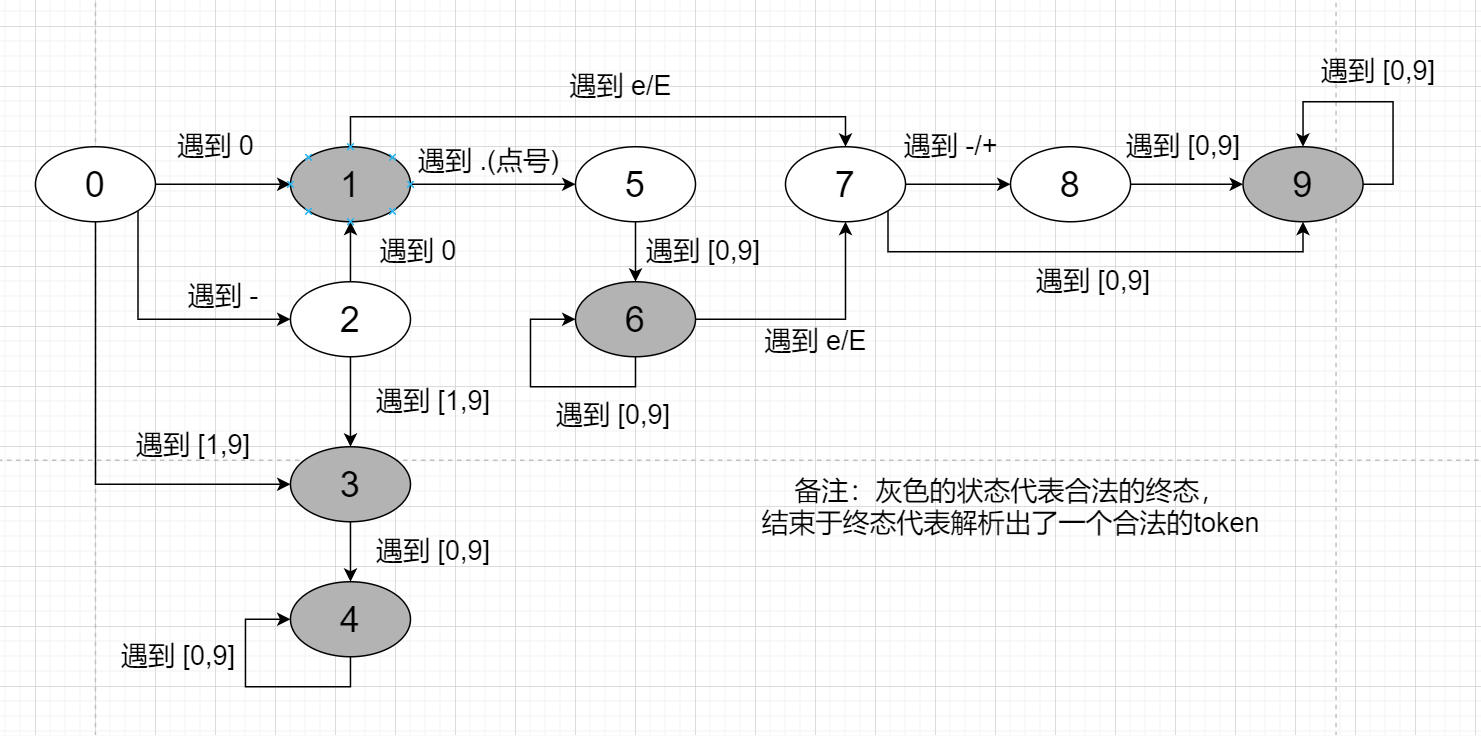
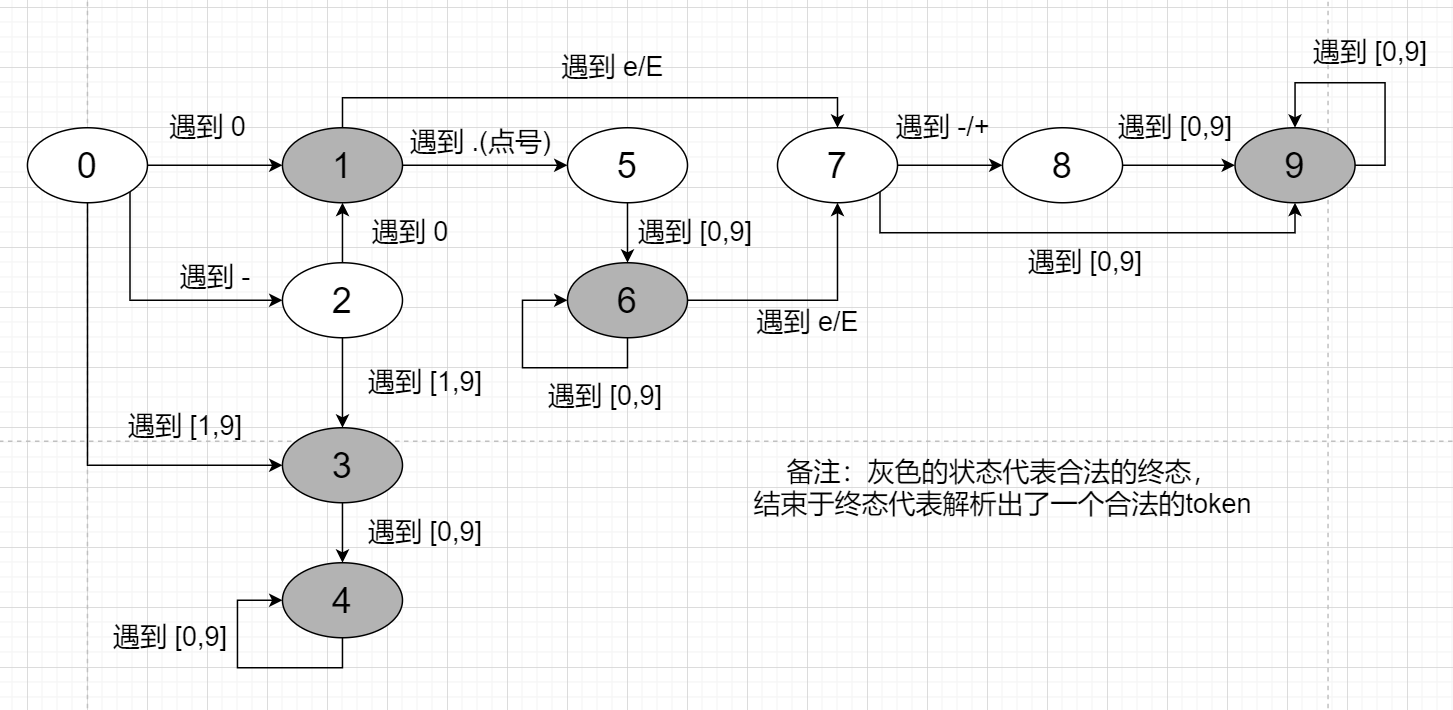
博客 修正一点错误

diff --git a/blog/blog.md b/blog/blog.md
@@ -1,14 +1,5 @@
 # 从零开始实现一个简易json解析器
 
-## 0. 写在前面
-这篇文章记录了我如何**从零实现一个简易json解析器**：不依赖任何第三方库，只用Java手写词法分析器、语法分析器和AST，并在此基础上实现json的美化输出，同时比较**递归解析**与**基于堆栈解析**在性能与栈深度上的差异。
-
-适合阅读本篇文章的同学大致具备以下背景：  
-- 熟悉 Java 语法，能看懂基础集合、枚举、异常等
-- 听说过编译原理里的一些基础概念（词法分析、语法分析、AST 等），但可能没有亲手实现过
-- 想通过一个**小而完整**的项目来练习“从文法到状态机再到代码”的全过程
----
-
 ## 1. MySimpleJsonParser 介绍与整体设计
 最近在学习编译原理相关的知识。为了加深对词法分析、语法分析阶段中诸如**有限自动机、自顶向下语法分析、AST** 等概念的理解，我选择实现一个json解析器作为练手机会。
 #####
@@ -23,9 +14,9 @@
 2. **`StreamJsonLexer`**：按需惰性解析token的流式json词法分析器
 3. **`RecursiveJsonParser`**：基于递归的json语法解析器
 4. **`StackBaseJsonParser`**：基于显式堆栈的json语法解析器（非递归）
-5. **AST 结构**：`JsonElement`及其子类，并基于AS生成Pretty JSON字符串的工具方法
+5. **AST结构**：JsonElement及其子类，并基于AST生成Pretty JSON字符串的工具方法
 
-## 2. json词法分析实现 从文法到状态机
+## 2. 从文法到词法分析器：手写 json lexer
 词法分析阶段的任务是：将原始的字符流，按照json的词法规则，转换为token流。之后的语法分析会在token流的基础上按文法规则构建AST。
 
 ### 2.1 json文法与基本结构
@@ -38,17 +29,17 @@
 6. **whitespace**：由任意个space空格、linefeed换行符、carriage return回车符以及tab制表符组成，本身无意义，仅起到分割的作用。
 
 #####
-仔细分析后，发现string结构、number结构和whitespace结构以及`{`、`}`、`[`、`]` 这类符号都是基本结构，是自身无法再嵌套其它结构的基本单元，因此其都是最终AST中的叶子节点，而object、array和value都是可以互相嵌套的复合结构，其都是AST中的非叶子节点。   
-对于这些可嵌套的非AST叶子节点，必须在语法分析中才能完成解析；而string结构、number结构、false、true、null关键字以及“{”、“]”等特殊符号，则适合在词法分析中完成解析。   
-因为json语法中，无论原始的json字符串中一个number字面量有多复杂(比如-2.03214e+6605218)，在语法分析中都只需要当做一个完整的number类型的token来处理即可。   
-词法分析专注于局部，将原始的字符流按照词法规则正确的转换为token流；而语法分析则专注于将token流按照语法规则转换为正确的AST树结构。  
-通过将整个分析流程，有机的分解为词法分析和语法分析等等不同步骤，每个步骤都依赖于前一个步骤的产出的分层设计，能够很好的控制解析器整体的复杂度，方便调试的同时性能上也有很大的提升。  
-因此，除了少数非常简单的语言外，几乎所有的编译器都会采用分层的架构来实现整体的功能。
+* 仔细分析后，发现string结构、number结构和whitespace结构以及`{`、`}`、`[`、`]` 这类符号都是基本结构，是自身无法再嵌套其它结构的基本单元，因此其都是最终AST中的叶子节点，而object、array和value都是可以互相嵌套的复合结构，其都是AST中的非叶子节点。
+* 对于这些可嵌套的非AST叶子节点，必须在语法分析中才能完成解析；而string结构、number结构、false、true、null关键字以及“{”、“]”等特殊符号，则适合在词法分析中完成解析。   
+  因为json语法中，无论原始的json字符串中一个number字面量有多复杂(比如-2.03214e+6605218)，在语法分析中都只需要当做一个完整的number类型的token来处理即可。
+* 词法分析专注于局部，将原始的字符流按照词法规则正确的转换为token流；而语法分析则专注于将token流按照语法规则转换为正确的AST树结构。  
+  通过将整个分析流程，有机的分解为词法分析和语法分析等等不同步骤，每个步骤都依赖于前一个步骤的产出的分层设计，能够很好的控制解析器整体的复杂度，方便调试的同时性能上也有很大的提升。  
+  因此，除了少数非常简单的语言外，几乎所有的编译器都会采用分层的架构来实现整体的功能。
 
 ### 2.2 token类型定义
 从文法角度，json中允许的token类型大致可分为三类：
-1. 特殊符号：诸如“{”、“}”、“[”、“]”、“,”,“:”,“"”等独立的字符是json中的特殊符号
-2. 关键字：完整且独立的true、false、null被视为关键字
+1. 特殊符号：诸如“`{`”、“`}`”、“`[`”、“`]`”、“`,`”,“`:`”,“`"`”等独立的字符是json中的特殊符号
+2. 关键字：完整且独立的`true`、`false`、`null`被视为关键字
 3. 字面量：number、string这两种复杂字符流字面量
 #####
 因此我们可以先定义出json的token类型枚举。其中EOF类型是额外的，用于在完成整个字符流的词法分析后，追加到token流的最后，标志着token流的结束。
@@ -901,54 +892,9 @@ public class KeywordTrueLexStatementMachine extends KeywordLexStatementMachine{
     }
 }
 ```
-```java
-/**
- * 解析关键字false的状态自动机
- * */
-public class KeywordFalseLexStatementMachine extends KeywordLexStatementMachine{
-
-    private static final String KEYWORD = JsonTokenTypeEnum.FALSE.getKey();
-    private static final Map<Integer,Boolean> staticIsFinalStateMap;
-    private static final LexStateHandler[] lexStateHandlers;
-
-    static {
-        staticIsFinalStateMap = buildIsFinalStateMap(KEYWORD);
-        lexStateHandlers = buildLexStateHandlers(KEYWORD);
-    }
-
-    public KeywordFalseLexStatementMachine() {
-        super(KEYWORD);
-
-        super.isFinalStateMap = staticIsFinalStateMap;
-        super.stateHandlers = lexStateHandlers;
-    }
-}
-```
-```java
-/**
- * 解析关键字null的状态自动机
- * */
-public class KeywordNullLexStatementMachine extends KeywordLexStatementMachine{
-
-    private static final String KEYWORD = JsonTokenTypeEnum.NULL.getKey();
-    private static final Map<Integer,Boolean> staticIsFinalStateMap;
-    private static final LexStateHandler[] lexStateHandlers;
-
-    static {
-        staticIsFinalStateMap = buildIsFinalStateMap(KEYWORD);
-        lexStateHandlers = buildLexStateHandlers(KEYWORD);
-    }
-
-    public KeywordNullLexStatementMachine() {
-        super(KEYWORD);
-
-        super.isFinalStateMap = staticIsFinalStateMap;
-        super.stateHandlers = lexStateHandlers;
-    }
-}
-```
 #####
 * 由于关键字的解析都是最简单的单向状态转移，所以单独抽象出了KeywordLexStatementMachine类，其根据构造方法中传入的关键字字面量，自动生成对应数量的LexStateHandler集合和IsFinalStateMap。
+* false和null关键字的词法解析与true基本一致，这里省略掉
 ##### 2.7 jsonTokenReader
 至此，我们就已经实现了基本的json词法分析能力，能够将json字符串一次性的解析成token列表供下一阶段的语法分析使用。   
 但在语法解析阶段，parser更希望接收的是能够自己记忆当前所处理token的token流，而不是一个孤零零的List<JsonToken>，所以这里简单的以迭代器的方式包装一下方便使用。  
@@ -1015,7 +961,7 @@ public class StaticJsonTokenReader implements JsonTokenReader {
     }
 ```
 ![static_json_lexer_demo_result.png](img/static_json_lexer_demo_result.png)
-## 3. json语法分析实现
+## 3. 手写 json 语法分析器：从 token 到 AST
 语法分析阶段，接收词法分析阶段输出的token流，需要按照语法规则解析出正确的AST抽象语法树。  
 在json的AST中其实本质上只有三种类型的元素：
 - `JsonObject`：对象
@@ -1036,7 +982,7 @@ public class JsonObject extends JsonElement{
 
     private final Map<String,JsonElement> objMap = new LinkedHashMap<>();
 
-    public void putKey(String key, JsonElement value) {
+    public void putKV(String key, JsonElement value) {
         objMap.put(key, value);
     }
 
@@ -1694,9 +1640,9 @@ public abstract class JsonElement {
 ![json_beauty_demo.png](img/json_beauty_demo.png)
 ## 5. 流式的json词法解析
 截止目前我们已经实现了json字符串的解析功能，但还存在两个严重的性能问题需要优化。
-* 首先是目前的词法分析器是一次性的解析出所有的token后，再交给语法分析去解析的。而这存在一个隐患，因为很多时候我们实际解析的并总是一个合法的json字符串。   
-  如果一个非常长的不合法的json字符串，在词法分析阶段看不出任何的问题(比如在合法的json字符串的前面误追加一个123)，而直到语法分析才发现存在语法错误，那么词法分析阶段花费的计算资源就统统浪费了。  
-* 如果能够在完整的词法分析处理的过程中提前发现语法分析就能避免这个问题。但实现这个功能不需要将词法分析和语法分析的功能耦合在一起，而是将词法分析器改造成按需加载的流式解析即可。  
+* 首先是目前的词法分析器是一次性的解析出所有的token后，再交给语法分析去解析的。而这存在一个隐患，因为很多时候我们实际解析的并不总是一个合法的json字符串。   
+  如果一个非常长的不合法的json字符串，在词法分析阶段看不出任何的问题(比如在合法的以`{`开头的json字符串的前面误追加一个123)，而直到语法分析才发现存在语法错误，那么词法分析阶段花费的计算资源就统统浪费了。  
+* 如果能够在完整的词法分析处理的过程中提前发现语法错误就能避免这个问题。但实现这个功能不需要将词法分析和语法分析的功能耦合在一起，而是将词法分析器改造成按需加载的流式解析即可。  
   流式的词法分析能够在语法解析器需要读取token时才触发词法分析，并且一次可以只按需的完整解析出一个完整的token交给parser。  
 * 有了流式的词法分析，像上面举得例子，在合法的非常长的json字符串的前面误加一个123的场景，便能够很早的就发现语法错误，结束解析过程。  
 ##### 流式的词法分析解析实现
